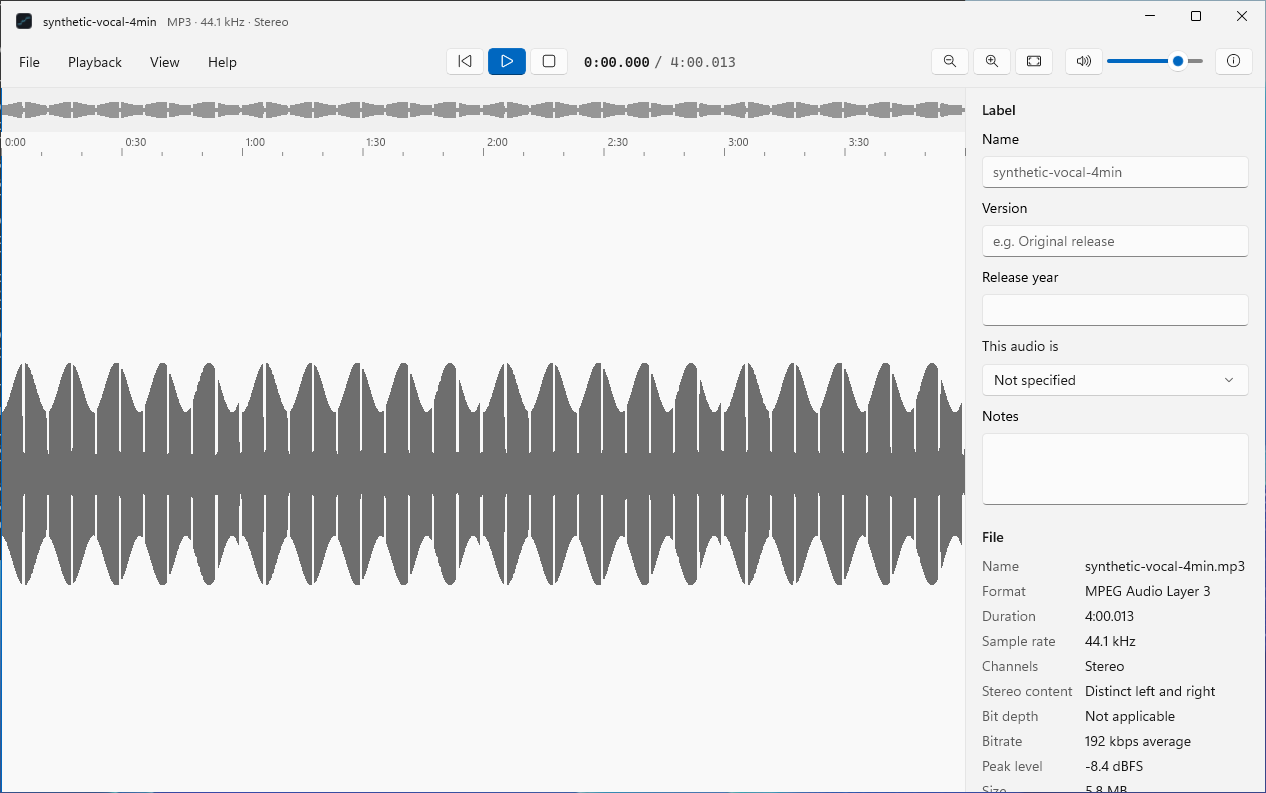
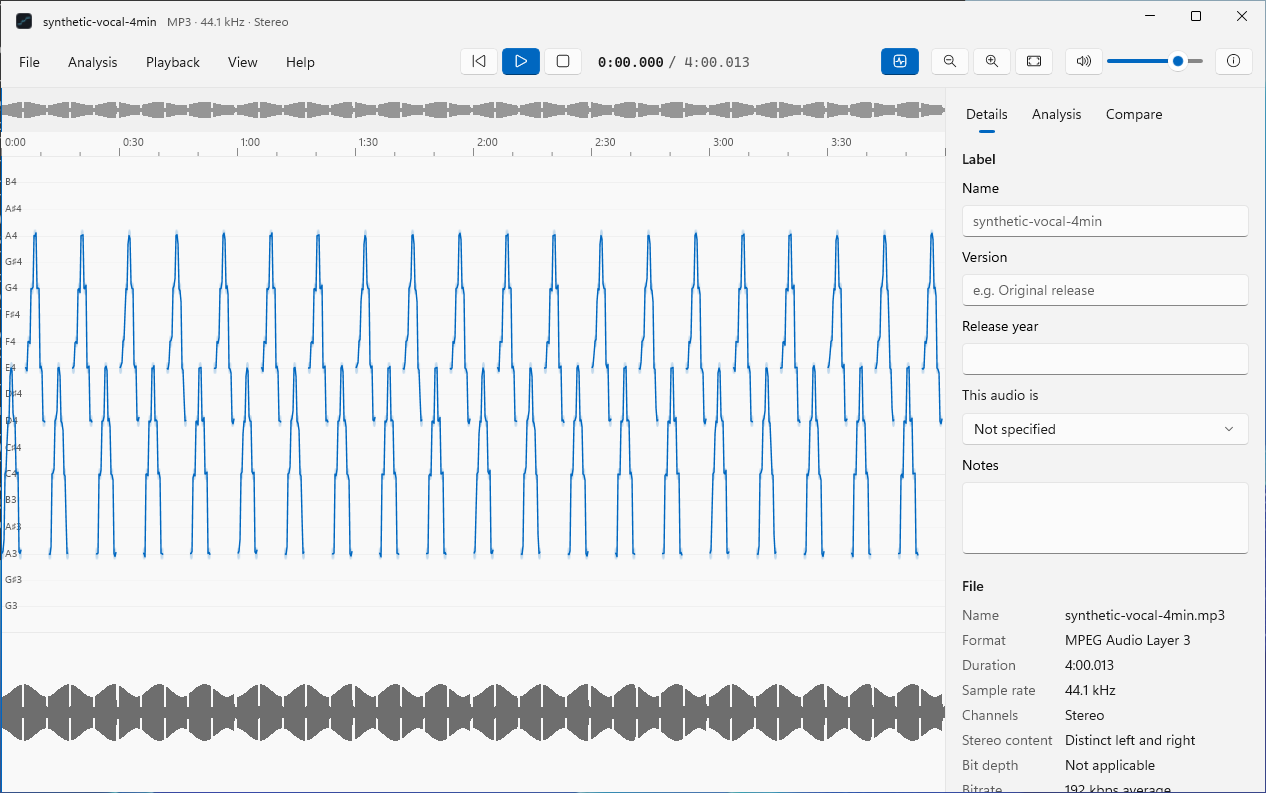
Add Windows screenshots of 0.6.0 from the build server

diff --git a/README.md b/README.md
@@ -103,6 +103,8 @@ same file opens instantly.
 
 ![A recording with its pitch analysis on macOS](docs/images/macos-main.png)
 
+![A recording with its pitch on Windows](docs/images/windows-main.png)
+
 The window has four parts:
 
 - **Overview** (the thin strip at the top): the whole recording. When you
@@ -331,14 +333,16 @@ further along:
 | Choose audio output device | Yes | Not yet (uses the default) |
 | Hover read-out of the time and pitch under the pointer | Yes | Not yet |
 | Click a differing passage to go to it | Yes | Yes |
-| Tested by hand | Launched and photographed with recordings open; controls not clicked through | Not yet run with the analysis features |
+| Tested by hand | Launched and photographed with recordings open; controls not clicked through | Launched and photographed with a recording open, on a build server; controls not clicked through |
 
 That last row matters. All of the analysis lives in the shared core and is
 covered by its tests, including one that downloads a real model and isolates
 with it. The interfaces are another matter: the macOS app has been launched
 and photographed showing an analysis and a comparison, but its buttons,
-menus and dialogs have not been clicked through; the Windows app's new
-screens have been checked by the compiler only, and nobody has used them.
+menus and dialogs have not been clicked through; the Windows app is built,
+launched and photographed showing a pitch analysis on a build server for
+every change, but nobody has used it on a real PC, and its isolation,
+comparison and export screens have never been opened.
 Please [report problems](https://github.com/j4ckxyz/VocalScope/issues).
 
 ## Roadmap
